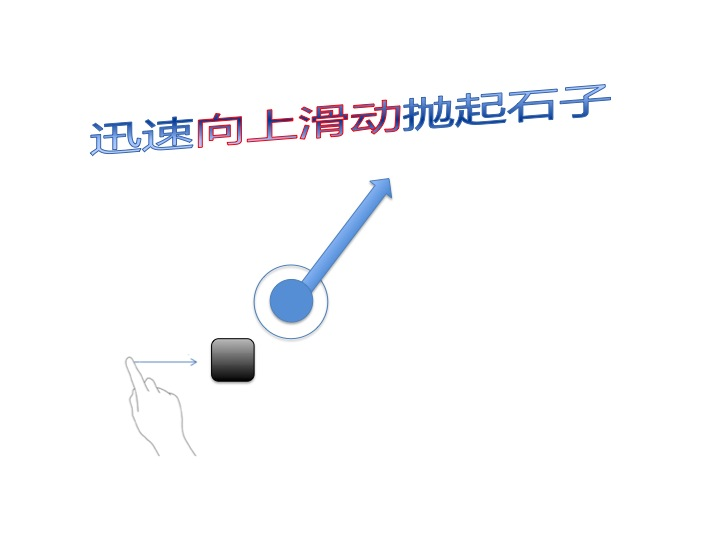
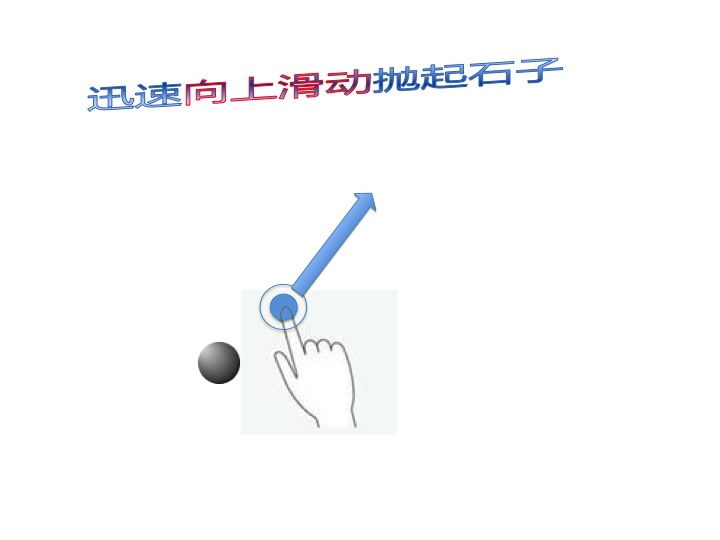
优化引导图

diff --git a/SmallStone_iOS/SmallStone/GuideViewController.m b/SmallStone_iOS/SmallStone/GuideViewController.m
@@ -82,7 +82,7 @@
     
     UIButton *button = [UIButton buttonWithType:UIButtonTypeCustom];
     [button setImage:[UIImage imageNamed:@"tiyan.png"] forState:UIControlStateNormal];
-    [button setFrame:CGRectMake(100, 100, 150, 40)];
+    [button setFrame:CGRectMake(self.view.bounds.size.width - 200, self.view.bounds.size.height - 150, 150, 40)];
     [button setTitleColor:[UIColor colorWithRed:255 green:0 blue:0 alpha:1.0] forState:UIControlStateNormal];
     [button setBackgroundColor:[UIColor colorWithRed:50 green:50 blue:50 alpha:0.5]];
     [button addTarget:self action:@selector(gotoMain) forControlEvents:UIControlEventTouchUpInside];

diff --git a/SmallStone_iOS/SmallStone/AppDelegate.m b/SmallStone_iOS/SmallStone/AppDelegate.m
@@ -19,7 +19,7 @@
     // Override point for customization after application launch.
     
     //判断是否第一次启动应用，区分是否加载引导页面
-    if ([[NSUserDefaults standardUserDefaults] boolForKey:@"launchFlag"]) {
+    if ([[NSUserDefaults standardUserDefaults] boolForKey:@"launchFlag"] && 0) {
         self.viewController = [[MainViewController alloc] initWithNibName:nil bundle:nil];
         self.window.rootViewController = self.viewController;
     }else {
